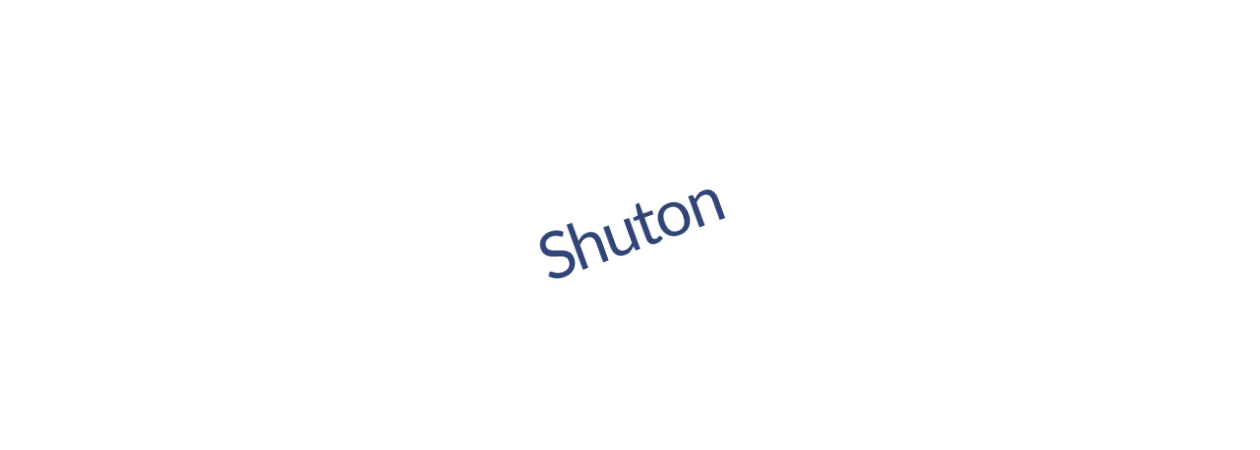
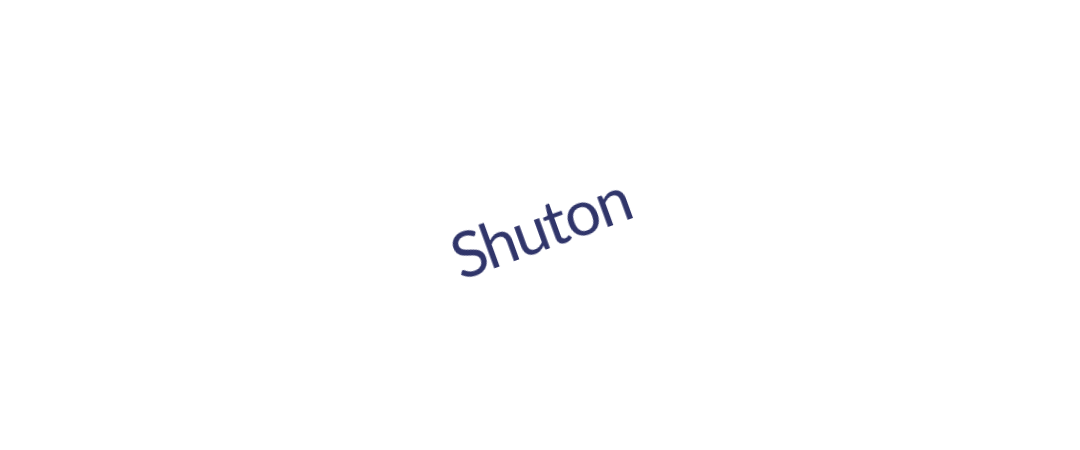
Deply 55

Changed region(s): [[0.3972, 0.4044, 0.6111, 0.6222]]

diff --git a/de/shuton/index.html b/de/shuton/index.html
@@ -143,7 +143,7 @@
     <section class="partnerinfo">  
         <div class="row partnerborder2">
 
-            <img class="d-block w-100 partnerbanner" src="../../images/slider/car_shuton2.jpg" class="d-block w-100" alt="">
+            <img class="d-block w-100 partnerbanner" src="../../images/slider/car_shuton.jpg" class="d-block w-100" alt="">
         </div>      
         <div class="row">
             <div class="col-md-3 col-sm-12 bg-lightgradient">
@@ -154,7 +154,7 @@
 
             <div class="col-md-6 col-sm-12 bg-lighter">
                 <p class="partnerdescr">
-                    Shuton Text
+                    Shuton ist eine Top Referenz der Hersteller von Kugelrollspindeln in Europa.  Angesiedelt im spanischen Baskenland, in der Schwerpunktregion des Werkzeugmaschinenbaus.   40 Jahre Erfahrung haben Shuton zu einem der führenden Spezialisten für Kugelgewindetriebe gemacht.  Erfahrene und engagierte Mitarbeiter stehen für höchste Präzision, Wettbewerbsfähigkeit und Zuverläßlichkeit.  Durch permanente Innovation und der Suche nach Perfektion wird Shuton zum „Best Partner“ für unsere Kunden. SHUTON fertigt Kugelgewindetriebe  für Werkzeugmaschinen, Kunststoffeinspritzung, Pressen und andere Anwendungen. In  Durchmessern von 16 bis 200 mm, Steigungen von 4 bis 100 mm und Spindeln von bis zu 15 Metern ungeteilter Länge.
                 </p>
             </div>
 
@@ -208,9 +208,9 @@
                
                     <div class="col-12 col-md-2 padding-0 filtr-item" data-category="">
                         <div class="portfolio-block">
-                            <img class="img-fluid" src="https://updownleftrighty.github.io/images/portfolio/portfolio-shuton1.jpg" alt="portfolio-image">
+                            <img class="img-fluid" src="https://updownleftrighty.github.io/images/portfolio/portfolio-shuton7.jpg" alt="portfolio-image">
                             <div class="caption">
-                                <a class="search-icon" href="https://updownleftrighty.github.io/images/portfolio/portfolio-shuton1.jpg" data-lightbox="image-1">
+                                <a class="search-icon" href="https://updownleftrighty.github.io/images/portfolio/portfolio-shuton7.jpg" data-lightbox="image-1">
                                     <i class="tf-ion-ios-search-strong"></i>
                                 </a>
                             </div>
@@ -219,9 +219,9 @@
                     
                     <div class="col-12 col-md-2 padding-0 filtr-item" data-category="ios, design">
                         <div class="portfolio-block">
-                            <img class="img-fluid" src="https://updownleftrighty.github.io/images/portfolio/portfolio-shuton2.jpg" alt="portfolio-image">
+                            <img class="img-fluid" src="https://updownleftrighty.github.io/images/portfolio/portfolio-shuton8.jpg" alt="portfolio-image">
                             <div class="caption">
-                                <a class="search-icon" href="https://updownleftrighty.github.io/images/portfolio/portfolio-shuton2.jpg" data-lightbox="image-1">
+                                <a class="search-icon" href="https://updownleftrighty.github.io/images/portfolio/portfolio-shuton8.jpg" data-lightbox="image-1">
                                     <i class="tf-ion-ios-search-strong"></i>
                                 </a>
                             </div>
@@ -230,9 +230,9 @@
                     
                     <div class="col-12 col-md-2 padding-0 filtr-item" data-category="photography, development">
                         <div class="portfolio-block">
-                            <img class="img-fluid" src="https://updownleftrighty.github.io/images/portfolio/portfolio-shuton3.jpg" alt="portfolio-image">
+                            <img class="img-fluid" src="https://updownleftrighty.github.io/images/portfolio/portfolio-shuton9.jpg" alt="portfolio-image">
                             <div class="caption">
-                                <a class="search-icon" href="https://updownleftrighty.github.io/images/portfolio/portfolio-shuton3.jpg" data-lightbox="image-1">
+                                <a class="search-icon" href="https://updownleftrighty.github.io/images/portfolio/portfolio-shuton9.jpg" data-lightbox="image-1">
                                     <i class="tf-ion-ios-search-strong"></i>
                                 </a>
                             </div>
@@ -241,9 +241,9 @@
                     
                     <div class="col-12 col-md-2 padding-0 filtr-item" data-category="ios">
                         <div class="portfolio-block">
-                            <img class="img-fluid" src="https://updownleftrighty.github.io/images/portfolio/portfolio-shuton4.jpg" alt="portfolio-image">
+                            <img class="img-fluid" src="https://updownleftrighty.github.io/images/portfolio/portfolio-shuton10.jpg" alt="portfolio-image">
                             <div class="caption">
-                                <a class="search-icon" href="https://updownleftrighty.github.io/images/portfolio/portfolio-shuton4.jpg" data-lightbox="image-1">
+                                <a class="search-icon" href="https://updownleftrighty.github.io/images/portfolio/portfolio-shuton10.jpg" data-lightbox="image-1">
                                     <i class="tf-ion-ios-search-strong"></i>
                                 </a>
                             </div>
@@ -275,9 +275,9 @@
                     
                     <div class="col-12 col-md-2 padding-0 filtr-item" data-category="photography">
                         <div class="portfolio-block">
-                            <img class="img-fluid" src="https://updownleftrighty.github.io/images/portfolio/portfolio-shuton7.jpg" alt="portfolio-image">
+                            <img class="img-fluid" src="https://updownleftrighty.github.io/images/portfolio/portfolio-shuton1.jpg" alt="portfolio-image">
                             <div class="caption">
-                                <a class="search-icon" href="https://updownleftrighty.github.io/images/portfolio/portfolio-shuton7.jpg" data-lightbox="image-1">
+                                <a class="search-icon" href="https://updownleftrighty.github.io/images/portfolio/portfolio-shuton1.jpg" data-lightbox="image-1">
                                     <i class="tf-ion-ios-search-strong"></i>
                                 </a>
                             </div>
@@ -290,9 +290,9 @@
                 
                     <div class="col-12 col-md-2 padding-0 filtr-item" data-category="ios, design">
                         <div class="portfolio-block">
-                            <img class="img-fluid" src="https://updownleftrighty.github.io/images/portfolio/portfolio-shuton8.jpg" alt="portfolio-image">
+                            <img class="img-fluid" src="https://updownleftrighty.github.io/images/portfolio/portfolio-shuton2.jpg" alt="portfolio-image">
                             <div class="caption">
-                                <a class="search-icon" href="https://updownleftrighty.github.io/images/portfolio/portfolio-shuton8.jpg" data-lightbox="image-1">
+                                <a class="search-icon" href="https://updownleftrighty.github.io/images/portfolio/portfolio-shuton2.jpg" data-lightbox="image-1">
                                     <i class="tf-ion-ios-search-strong"></i>
                                 </a>
                             </div>
@@ -305,9 +305,9 @@
                 
                     <div class="col-12 col-md-2 padding-0 filtr-item" data-category="photography, development">
                         <div class="portfolio-block">
-                            <img class="img-fluid" src="https://updownleftrighty.github.io/images/portfolio/portfolio-shuton9.jpg" alt="portfolio-image">
+                            <img class="img-fluid" src="https://updownleftrighty.github.io/images/portfolio/portfolio-shuton3.jpg" alt="portfolio-image">
                             <div class="caption">
-                                <a class="search-icon" href="https://updownleftrighty.github.io/images/portfolio/portfolio-shuton9.jpg" data-lightbox="image-1">
+                                <a class="search-icon" href="https://updownleftrighty.github.io/images/portfolio/portfolio-shuton3.jpg" data-lightbox="image-1">
                                     <i class="tf-ion-ios-search-strong"></i>
                                 </a>
                             </div>
@@ -320,39 +320,9 @@
                 
                     <div class="col-12 col-md-2 padding-0 filtr-item" data-category="photography">
                         <div class="portfolio-block">
-                            <img class="img-fluid" src="https://updownleftrighty.github.io/images/portfolio/portfolio-shuton10.jpg" alt="portfolio-image">
+                            <img class="img-fluid" src="https://updownleftrighty.github.io/images/portfolio/portfolio-shuton4.jpg" alt="portfolio-image">
                             <div class="caption">
-                                <a class="search-icon" href="https://updownleftrighty.github.io/images/portfolio/portfolio-shuton10.jpg" data-lightbox="image-1">
-                                    <i class="tf-ion-ios-search-strong"></i>
-                                </a>
-                            </div>
-                        </div>
-                    </div>
-        
-
-                    
-                
-                
-                    <div class="col-12 col-md-2 padding-0 filtr-item" data-category="ios, design">
-                        <div class="portfolio-block">
-                            <img class="img-fluid" src="https://updownleftrighty.github.io/images/portfolio/portfolio-shuton11.jpg" alt="portfolio-image">
-                            <div class="caption">
-                                <a class="search-icon" href="https://updownleftrighty.github.io/images/portfolio/portfolio-shuton11.jpg" data-lightbox="image-1">
-                                    <i class="tf-ion-ios-search-strong"></i>
-                                </a>
-                            </div>
-                        </div>
-                    </div>
-        
-
-                    
-                
-                
-                    <div class="col-12 col-md-2 padding-0 filtr-item" data-category="photography, development">
-                        <div class="portfolio-block">
-                            <img class="img-fluid" src="https://updownleftrighty.github.io/images/portfolio/portfolio-shuton12.jpg" alt="portfolio-image">
-                            <div class="caption">
-                                <a class="search-icon" href="https://updownleftrighty.github.io/images/portfolio/portfolio-shuton12.jpg" data-lightbox="image-1">
+                                <a class="search-icon" href="https://updownleftrighty.github.io/images/portfolio/portfolio-shuton4.jpg" data-lightbox="image-1">
                                     <i class="tf-ion-ios-search-strong"></i>
                                 </a>
                             </div>

diff --git a/de/index.html b/de/index.html
@@ -147,6 +147,7 @@
           <li data-target="#carouselExampleIndicators" data-slide-to="4"></li>
           <li data-target="#carouselExampleIndicators" data-slide-to="5"></li>
           <li data-target="#carouselExampleIndicators" data-slide-to="6"></li>
+          <li data-target="#carouselExampleIndicators" data-slide-to="7"></li>
         </ol>
         <div class="carousel-inner">
           <div class="carousel-item active">
@@ -186,6 +187,12 @@
               <img class ="d-block w-100" src="https://updownleftrighty.github.io/images/slider/title_grindel.png" class="image-responsive">
             </div>
           </div>
+          <div class="carousel-item">
+            <img class="d-block w-100" src="https://updownleftrighty.github.io/images/slider/car_shuton.jpg" class="d-block w-100" alt="Third slide">
+            <div class ="overlay">
+              <img class ="d-block w-100" src="https://updownleftrighty.github.io/images/slider/title_shuton.png" class="image-responsive">
+            </div>
+          </div>
           </div>
           <div class="carousel-item">
             <img class="d-block w-100" src="https://updownleftrighty.github.io/images/slider/car_spiroide.jpg" class="d-block w-100" alt="Third slide">
@@ -221,7 +228,7 @@
             </div>
             <div class="col-12 col-md-6">
                 
-                    <p class="biggertext">Die Zahl unserer zufriedenen Kunden, die unseren zuverlässigen Lieferanten mit ihren Produkten zu marktfähigen Preisen vertrauen, wächst kontinuierlich.  Die Lieferanten sind kleine bis mittelgroße Traditions- und Familienunternehmen. Die meisten blicken auf eine über 50- jährige Tradition zurück und ein Unternehmen kann sogar eine über 100 -jährige Firmengeschichte vorweisen.</p>
+                    <p class="biggertext">Die Zahl unserer zufriedenen Kunden, die unseren zuverlässigen Lieferanten mit ihren Produkten zu marktfähigen Preisen vertrauen, wächst kontinuierlich.  Die Lieferanten sind kleine bis mittelgroße Traditions- und Familienunternehmen.</p>
                 
             </div>
         </div>
@@ -246,7 +253,7 @@
                             <div class="content">
                                 <h2 class="about_font">Tradition und Expertise</h2>
                                 <p>
-                                    Unsere Lieferanten befinden sich in Nordspanien, sowohl in Katalonien als auch im Baskenland.  In diesen Regionen gehört es zur Tradition, einen besonderen Stolz für die eigene Arbeit und das Unternehmen zu besitzen. Diese Begeisterung zum eigenen Produkt, gepaart mit Flexibilität und Verlässlichkeit macht heute die besondere Stärke dieser Firmen aus und erhöht ihre Wettbewerbsfähigkeit für den deutschen Markt. 
+                                    Unsere Lieferanten befinden sich in Nordspanien, sowohl in Katalonien als auch im Baskenland.  In diesen Regionen gehört es zur Tradition, einen besonderen Stolz für die eigene Arbeit und das Unternehmen zu besitzen. Diese Begeisterung zum eigenen Produkt, gepaart mit Flexibilität und Verlässlichkeit macht heute die besondere Stärke dieser Firmen aus und erhöht ihre Wettbewerbsfähigkeit für den deutschen Markt.  
 
                                 </p>
                             </div>
@@ -260,7 +267,7 @@
                             <div class="content">
                                 <h2 class="about_font">Verlässlichkeit und Zusammenarbeit</h2>
                                 <p>
-                                    Wir arbeiten eng mit unseren Lieferanten und Kunden zusammen. Das ermöglicht eine kundenspezifische Lösungsfindung ohne Umwege. Wir unterstützen Sie bei Ihrem Vorhaben. 
+                                    Wir arbeiten eng mit unseren Lieferanten und Kunden zusammen. Das ermöglicht eine kundenspezifische Lösungsfindung ohne Umwege. Wir unterstützen Sie bei Ihrem Vorhaben. Die meisten unserer Partnerunternehmen blicken auf eine über 50- jährige Tradition zurück und ein Unternehmen kann sogar eine über 100 -jährige Firmengeschichte vorweisen.
 
                                 </p>
                             </div>

diff --git a/en/index.html b/en/index.html
@@ -147,6 +147,7 @@
           <li data-target="#carouselExampleIndicators" data-slide-to="4"></li>
           <li data-target="#carouselExampleIndicators" data-slide-to="5"></li>
           <li data-target="#carouselExampleIndicators" data-slide-to="6"></li>
+          <li data-target="#carouselExampleIndicators" data-slide-to="7"></li>
         </ol>
         <div class="carousel-inner">
           <div class="carousel-item active">
@@ -157,13 +158,13 @@
           </div>
 
           <div class="carousel-item">
-            <img class="d-block w-100" src="https://updownleftrighty.github.io/images/slider/car_tdg.jpg" class="d-block w-100" alt="Second slide">
+            <img class="d-block w-100" src="https://updownleftrighty.github.io/images/slider/car_tdg3.jpg" class="d-block w-100" alt="Second slide">
             <div class ="overlay">
               <img class ="d-block w-100" src="https://updownleftrighty.github.io/images/slider/title_tdg.png" class="image-responsive">
             </div>
           </div>
           <div class="carousel-item">
-            <img class="d-block w-100" src="https://updownleftrighty.github.io/images/slider/car_grindel.jpg" class="d-block w-100" alt="Third slide">
+            <img class="d-block w-100" src="https://updownleftrighty.github.io/images/slider/car_grindel2.jpg" class="d-block w-100" alt="Third slide">
             <div class ="overlay">
               <img class ="d-block w-100" src="https://updownleftrighty.github.io/images/slider/title_grindel.png" class="image-responsive">
             </div>
@@ -184,6 +185,12 @@
             <img class="d-block w-100" src="https://updownleftrighty.github.io/images/slider/car_grindel.jpg" class="d-block w-100" alt="Third slide">
             <div class ="overlay">
               <img class ="d-block w-100" src="https://updownleftrighty.github.io/images/slider/title_grindel.png" class="image-responsive">
+            </div>
+          </div>
+          <div class="carousel-item">
+            <img class="d-block w-100" src="https://updownleftrighty.github.io/images/slider/car_shuton.jpg" class="d-block w-100" alt="Third slide">
+            <div class ="overlay">
+              <img class ="d-block w-100" src="https://updownleftrighty.github.io/images/slider/title_shuton.png" class="image-responsive">
             </div>
           </div>
           </div>

diff --git a/en/shuton/index.html b/en/shuton/index.html
@@ -143,7 +143,7 @@
     <section class="partnerinfo">  
         <div class="row partnerborder2">
 
-            <img class="d-block w-100 partnerbanner" src="../../images/slider/car_shuton2.jpg" class="d-block w-100" alt="">
+            <img class="d-block w-100 partnerbanner" src="../../images/slider/car_shuton.jpg" class="d-block w-100" alt="">
         </div>      
         <div class="row">
             <div class="col-md-3 col-sm-12 bg-lightgradient">
